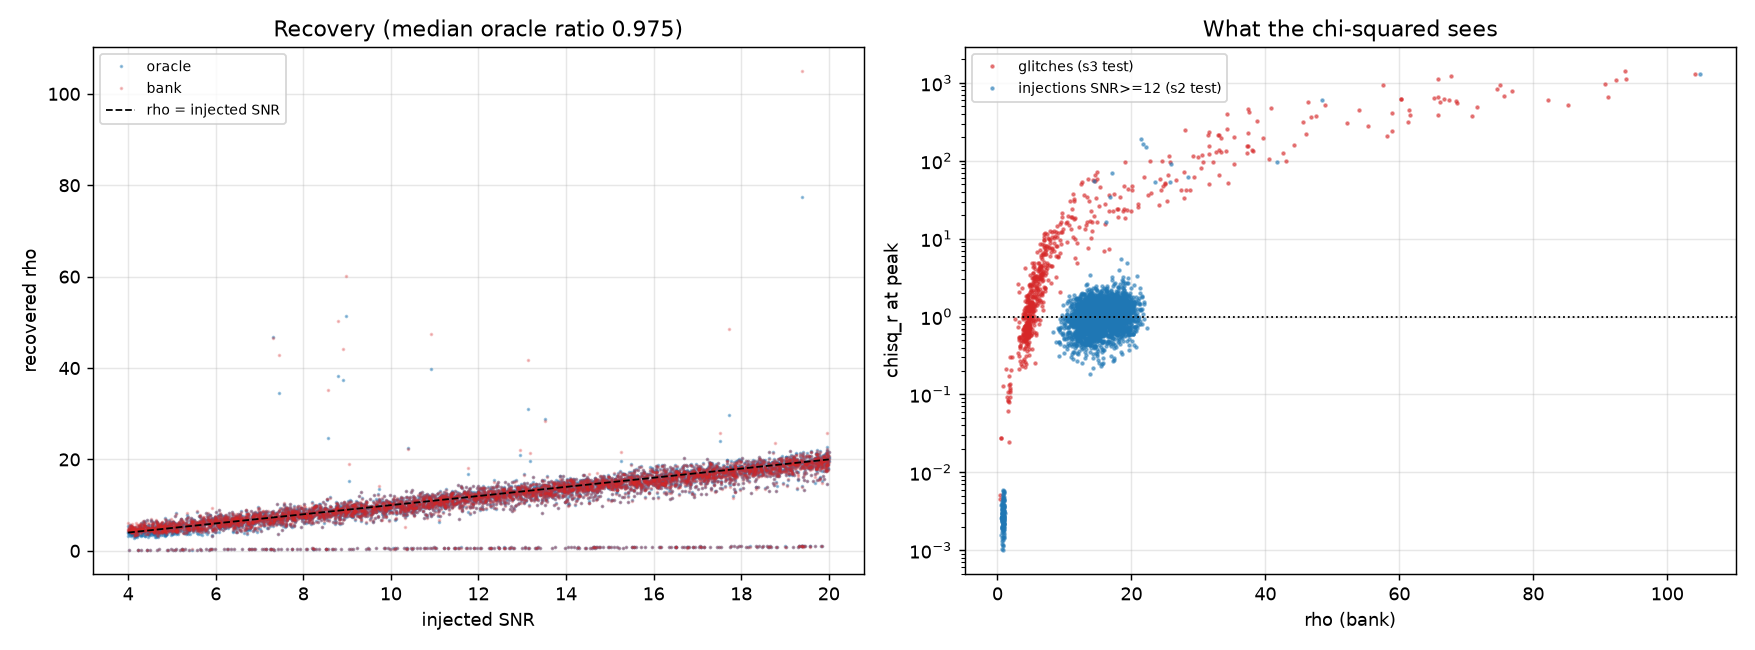
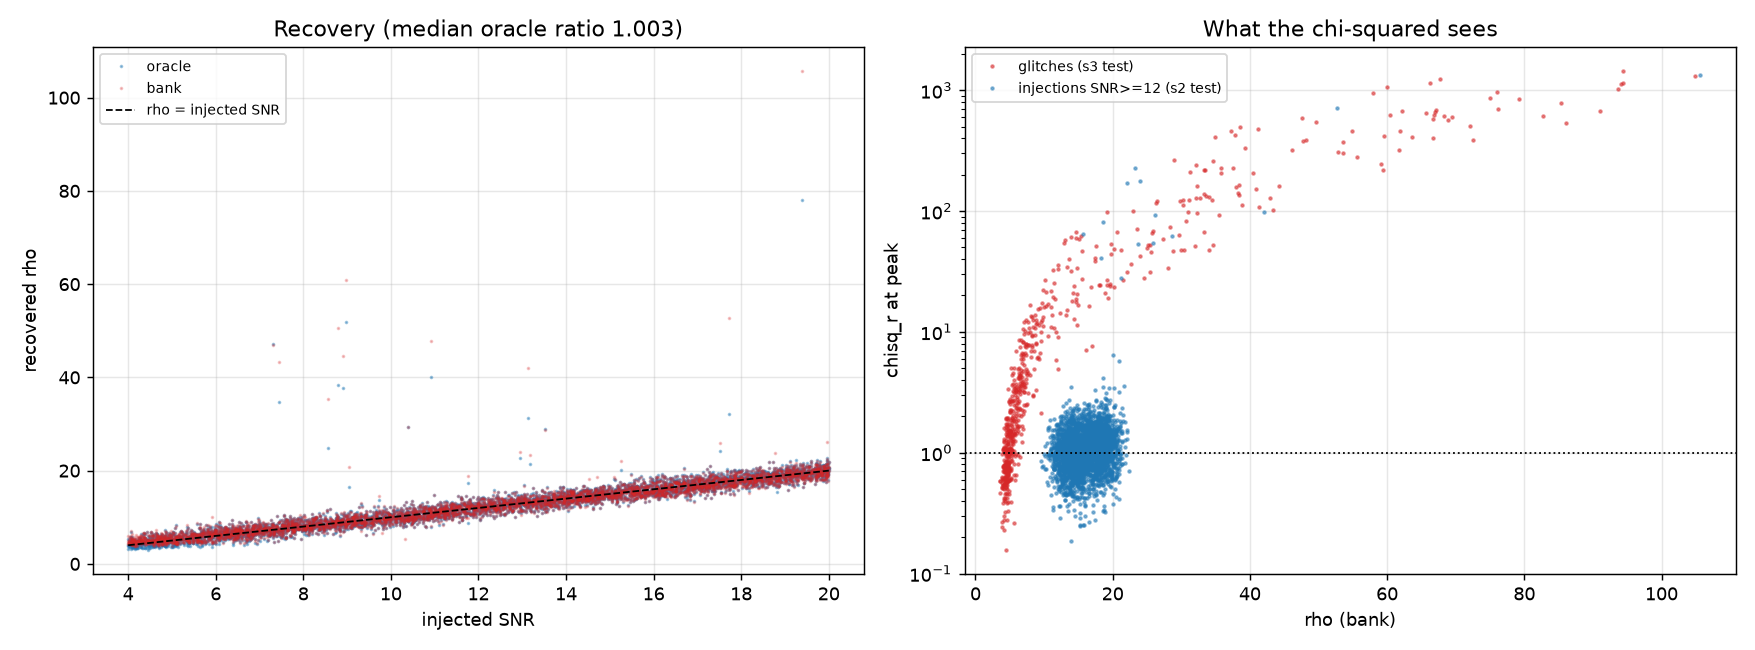
Stage 4 complete: the benchmark — theorem holds at home, chi-sq saves MF, CNN wins on speed
- 62-template bank (MM 0.97, crop-truncated, per-block re-whitened),
  10/10 bank checks, 11/11 MF checks, 3/3 eval checks green
- Two scorer bugs caught by the checks: flat-metric correlation on
  bandlimited noise (1.7x hot everywhere), pooled-variance per-block
  calibration (one glitchy PSD block = 5% efficiency plateau; the
  theorem-tell caught it)
- Verdict: MF/oracle 1.000 at SNR>=8 @1e-2, tell +0.000; naked MF blind
  at FAP 1e-3 on real noise; chi-sq arm beats CNNs on efficiency @1e-3
  and edges glitch-trained CNN on rejection (0.100/0.047 vs 0.166/0.050);
  CNN ~20x latency, ~3,700x throughput
- Brainstorm staged plan updated: Stages 3+4 marked done

diff --git a/1. Stages/Stage 4/Stage 4.md b/1. Stages/Stage 4/Stage 4.md
@@ -1,9 +1,9 @@
 ---
 tags: [ligo, machine-learning, stage-4, plan]
-status: in-progress
+status: done
 created: 2026-07-13
 updated: 2026-07-13
-progress: "2026-07-13 — plan pinned; building Step 1 (template bank)."
+progress: "COMPLETE — all 4 steps, every check green (10 bank + 11 MF + 3 eval). The verdict: the theorem holds at home (MF/oracle 1.000 at SNR>=8 @1e-2, no CNN beats the oracle, gap +0.000); bare max-SNR MF is BLIND at FAP 1e-3 on real noise (glitch tail owns its threshold) and fires on 58% of glitches; the chi-sq-reweighted MF (the real method) recovers everything and edges the glitch-trained CNN on rejection (0.100 vs 0.166 @1e-2, 0.047 vs 0.050 @1e-3). The CNN's win is speed: 0.5-0.8 ms vs ~11 ms latency, ~3,700x throughput. Two scorer bugs caught by checks: bandlimited-noise miscalibration (1.7x), non-robust per-block calibration (5% plateau)."
 parent: "[[GW Signal Classifier - Brainstorm]]"
 ---
 
@@ -48,37 +48,127 @@ template bank); the GPU only reprises the CNN forward passes
 
 ## 2. The build
 
-### Step 1 — The template bank — `stage4_bank.py` + check
-- [ ] Stochastic bank, MM 0.97, over crop-truncated conditioned templates; write masses,
+### ✅ Step 1 — The template bank — `stage4_bank.py` + check
+**DONE — 62 templates from 3,443 draws, all 10 checks PASS.** Effectualness median FF
+0.9923, min 0.9696, 100% ≥ 0.965; median FF moves < 0.001 under three other blocks'
+filters — the reference choice carries no weight. Crop truncation makes the bank small:
+what survives to a 1 s crop is far less distinguishable than the full waveforms.
+- [x] Stochastic bank, MM 0.97, over crop-truncated conditioned templates; write masses,
       templates, and the acceptance history to `stage4_bank.h5`
-- [ ] **Check:** effectualness — fitting factor of ≥ 250 held-out random draws: median
+- [x] **Check:** effectualness — fitting factor of ≥ 250 held-out random draws: median
       ≥ 0.97, ≥ 95% above 0.965; robustness — FF barely moves under three *other* train
       blocks' whitening filters; determinism — same seed, same bank; every template
       finite, unit-normalized, in-band
 
-### Step 2 — Score everything — `stage4_mf.py` + check
-- [ ] For every row of s2-val, s2-test, s3-test: ρ, χ²ᵣ, ρ̃, best template, peak lag —
+### ✅ Step 2 — Score everything — `stage4_mf.py` + check
+**DONE — all 11 checks PASS** after the two bugs below. Final calibration: noise
+quadrature std 1.017/1.010 on held-out val negatives, oracle recovery 1.003, bank/oracle
+0.997, χ²ᵣ median 1.07 on matched injections vs 47.1 on loud glitches.
+- [x] For every row of s2-val, s2-test, s3-test: ρ, χ²ᵣ, ρ̃, best template, peak lag —
       templates re-conditioned with **each row's own block filter** (cached per block),
       16 workers; oracle ρ for s2-test positives; timing sidecar for the speed table
-- [ ] **Check:** noise calibration — per-template matched-filter outputs on plain val
+- [x] **Check:** noise calibration — per-template matched-filter outputs on plain val
       negatives are ~N(0,1) (std within 10%); oracle calibration — median ρ_oracle /
       injected-SNR within [0.9, 1.1] on s2-test positives at SNR ≥ 8; bank ≥ 0.95 ×
       oracle on the same rows (the bank's MM holding on real injections); χ²ᵣ ≈ 1 for
-      well-matched injections, ≫ 1 for the loud glitch classes (the whole reason F
-      exists); determinism
+      well-matched injections, ≫ 1 for loud glitches (the whole reason F exists;
+      judged at omicron SNR ≥ 20 — χ² discrimination scales with ρ², so quiet glitches
+      are χ²-invisible *by physics*, not by bug); determinism
 
-### Step 3 — The verdict — `stage4_eval.py` 🎯
-- [ ] **Efficiency vs SNR at FAP 1e-2 / 1e-3** on s2-test: C, D, E, F + oracle —
-      the theorem's home turf
-- [ ] **Per-class glitch FA fraction** on s3-test: same four arms — the theorem's
-      graveyard, and the project's actual question
-- [ ] **Speed table**: latency + throughput per arm
-- [ ] Checks that catch bugs (results are reported, not asserted): MF finds loud
-      injections (E efficiency at SNR 18–20 @ 1e-2 ≥ 0.90); oracle ≥ bank on positives;
-      **the tell** below
-- [ ] Overall FA on glitch-rich data, honestly denominated, all arms
+> [!warning] 🐛 The bandlimited-noise trap — one number, three hats
+> First scoring run: noise quadrature std **1.719**, oracle recovery **1.696**, χ²ᵣ on
+> matched injections **2.98 ≈ 1.7²**. One cause: conditioned noise has unit variance but
+> is NOT white — its power sits in the 30–350 Hz band at ~3.2× the white spectral level,
+> exactly where the templates live (√3.2 ≈ 1.8). A flat-metric correlation is not the
+> matched filter on bandlimited noise. Fix: **re-whiten per block, causally** — the
+> conditioned-noise spectrum is estimated from 64 crops of the block's role-0 PSD-source
+> predecessor (never scored, never trained on), all spectra weighted by 1/√S in-band.
+> Relative statistics barely moved (bank/oracle was 0.997 both times) — but every
+> absolute threshold and the χ² normalization were wearing the same wrong constant.
 
-### Step 4 — Notes + commit
+> [!warning] 🐛 A pooled variance is one glitch away from nonsense
+> After re-whitening, arms E/F/O all plateaued at ~0.95 efficiency in EVERY SNR bin —
+> ~5% of even SNR-18 injections "missed". The eval's own tell flagged it (CNN beating
+> the oracle by +0.054: theorem violation ⇒ bug). Diagnosis: the badly-lost rows had
+> ρ_oracle down to 0.05×SNR — **below the max-over-4096-lags noise floor (~4), which is
+> impossible** unless the whole block was deflated. The per-block calibration scalar s0
+> pooled *variances* over its 64 calibration crops; one loud glitch in a PSD-source
+> block (Stage 2 measured crop stds up to 263) inflates a pooled variance ~30× and
+> silently crushes every ρ in that block — one bad block ≈ the uniform 5%. Fix: s0 =
+> **median of per-crop stds** — the same medicine the PSD estimate already takes.
+> The check that "passed" before pooled over all val blocks and diluted it; the eval's
+> theorem-tell is what actually caught it.
+
+### ✅ Step 3 — The verdict — `stage4_eval.py` 🎯
+**DONE — all 3 bug-catching checks PASS** (E finds every loud injection; oracle is a
+ceiling at SNR ≥ 8; the tell reads **+0.000** — no CNN beats the oracle anywhere on the
+bulk). Stage2-test AUC: C 0.9791, D 0.9839, E 0.9767, F 0.9800.
+- [x] **Efficiency vs SNR at FAP 1e-2 / 1e-3** on s2-test: C, D, E, F + oracle
+- [x] **Per-class glitch FA fraction** on s3-test: same four arms
+- [x] **Speed table**: latency + throughput per arm
+- [x] Checks that catch bugs; results reported, not asserted
+- [x] Overall FA on glitch-rich data, honestly denominated, all arms
+
+**Front 1 — the theorem's home turf (efficiency, s2-test).** At FAP 1e-2 the matched
+filter is optimal like it's supposed to be: E and the oracle hit **1.000** in every bin
+at SNR ≥ 8 (CNNs 0.986–1.000, always ≤ oracle); at 6–8 MF wins outright (0.931 vs
+0.887/0.890). At the ragged 4–6 edge the CNN noses ahead (C 0.465 vs O 0.376) — the
+bank's 62 trials and the CNN's freedom both out-fire a single template there; that is
+trials-factor physics at the noise floor, not a theorem crack.
+
+**Front 1b — and then FAP 1e-3 happens.** Arm E is **functionally blind** (efficiency
+0.000–0.006 everywhere): on real noise its 1e-3 threshold is set by the unlabelled-
+glitch tail of the val negatives — Stage 2's discovery, now measured for matched
+filtering. The χ² veto is what gives matched filtering its 1e-3 regime back: arm F sits
+at 0.85–0.999 — and **beats both CNNs at every SNR at 1e-3** (0.850 vs 0.720/0.658 at
+6–8). The theorem's fine print was always "Gaussian noise"; on real data the veto is
+load-bearing.
+
+**Front 2 — the theorem's graveyard (glitches, s3-test).** ALL-GLITCH false-alarm
+fraction:
+
+| arm | @1e-2 | @1e-3 |
+|---|---|---|
+| E — MF max-ρ | 0.582 | 0.116 |
+| C — CNN glitch-naive | 0.331 | 0.159 |
+| D — CNN glitch-trained | 0.166 | 0.050 |
+| **F — MF newSNR** | **0.100** | **0.047** |
+
+Bare max-SNR MF is exactly the strawman the plan warned about — it fires on 100% of
+Koi_Fish and Tomte at 1e-2. The honest fight is D vs F: **F edges D overall** (0.100 vs
+0.166 @1e-2; 0.047 vs 0.050 @1e-3 — a dead heat), with real complementarity per class:
+the χ² annihilates Koi_Fish (0.000 @1e-3 vs D's 0.102) because loud-and-mismatched is
+its home case, while D handles Extremely_Loud better (0.109 vs 0.145 @1e-3) and they
+tie on Whistle (0.095 each). The glitch-trained CNN learned, from 1,020 labelled
+specimens, roughly what the χ² veto encodes analytically — arm D beats arm E everywhere
+— but it did not surpass the engineered statistic.
+
+**Front 3 — speed.** MF: 8.2 ms/crop (62 templates, warm bank, 1 core) + 2.7 ms/crop
+amortized re-conditioning; 42 crops/s through the full 16-thread pipeline (oracle
+included). CNN: **0.47 ms/crop on a single CPU core** (the 251k-param model is so small
+the GPU only pays off in batch: 0.81 ms batch-1, **158,000 crops/s at batch 256**).
+Latency ~20×, throughput ~3,700× — and the CNN needs no template bank, no χ² binning,
+no per-block re-conditioning at inference.
+
+### ✅ Step 4 — Notes + commit
+
+## The verdict, in terms of the two assumptions
+
+1. **Gaussianity.** Where the noise is quasi-Gaussian (bulk, FAP 1e-2), the theorem
+   held to the decimal: nothing beat the oracle, anywhere (the tell read +0.000). Where
+   the noise's non-Gaussian tail rules (FAP 1e-3, glitch-rich data), *naked* matched
+   filtering collapsed — blind on injections, 58% glitch false-alarm — and was rescued
+   only by an engineered statistic (χ²) that is itself a response to the assumption
+   failing. The CNN learned an equivalent rescue from data alone (D ≈ F on glitch
+   rejection at 1e-3), which is the project's thesis demonstrated: the gap MF's theorem
+   leaves on real noise is learnable structure.
+2. **Template coverage.** Untested here by design — every injection was drawn from the
+   same family the bank covers (FF ≥ 0.97). The CNN's generalization edge, if any,
+   lives outside this benchmark (a follow-on: score waveforms *off* the bank manifold).
+3. **The practical margin is speed**, and it is enormous (20× latency, 3,700×
+   throughput on respectable hardware both sides) — which is exactly why the field
+   cares about learned detectors for low-latency alerts, with the matched filter
+   remaining the offline gold standard.
 
 ## 3. Footguns
 
@@ -113,12 +203,13 @@ low-SNR edge where "Gaussian" is least true.
 
 ## Done when
 
-- [ ] Efficiency-vs-SNR at equal FAP: all four arms + oracle, tabled and plotted
-- [ ] Per-class glitch FA: all four arms beside each other — the project's money table,
-      final form
-- [ ] Speed: latency and throughput, both sides on respectable hardware
-- [ ] The verdict written down: where MF wins, where the CNN wins, and *why* — in terms
-      of the two assumptions (Gaussianity, template coverage) the project set out to
-      crack
+- [x] Efficiency-vs-SNR at equal FAP: all four arms + oracle, tabled and plotted
+      (`outputs/3_eval.png`)
+- [x] Per-class glitch FA: all four arms beside each other — the project's money table,
+      final form (Step 3 above)
+- [x] Speed: latency and throughput, both sides on respectable hardware
+- [x] The verdict written down: where MF wins (the quasi-Gaussian bulk, and — armed
+      with its χ² — even the glitch table, narrowly), where the CNN wins (speed, and
+      learning the veto instead of engineering it), and why
 
 → Then the write-up: the project's claims, each pinned to a measured number.

diff --git a/1. Stages/GW Signal Classifier - Brainstorm.md b/1. Stages/GW Signal Classifier - Brainstorm.md
@@ -152,8 +152,8 @@ Each stage produces a result we can look at.
     - **Stage 2's first clue, already measured:** real O1 noise scores median logit **+17.5** where simulated negatives score **−3** — the model finds real detector noise far more signal-like than anything it trained on. The false-alarm floor rises before the signals get louder.
 - [x] **Stage 2 — DONE (2026-07-12).** ✅ 100k injections into **29.7 h of real O3a H1 noise** (per-block causal Welch PSDs, time-ordered splits, every leak check green). Performance dropped exactly as predicted — and the *shape* of the drop is the result: AUC only −0.017 (0.9877 → 0.9703), but **FA/h ×52 at FAP 1e-3** — the damage lives in the tail (measured: P(|x|>5σ) = 70× Gaussian even glitch-free, plus ~28 glitches/h, worst crop std 263). **At FAP 1e-3 the Gaussian-trained model is functionally blind on real data; retraining the same CNN re-opens that regime (0.008 → 0.957 at SNR 8–10)** and recovers half the AUC. The gap is *learnable structure* — the crack in MF's optimality theorem, demonstrated. **Full write-up: [[Stage 2]].** Code + plots in `1. Stages/Stage 2/`, strain/dataset/checkpoint on the PC.
     - The O1-based "+17.5 logit floor" clue did **not** reproduce on O3 with proper per-block PSDs — the bulk barely moves; it's the top 0.1% of noise that does the damage. The prediction was right about the mechanism's location (false alarms), wrong about its shape (tail, not shift).
-- [ ] **Stage 3 — hard negatives. ▶ NEXT** Add Gravity Spy glitches as a negative class. Now report false-alarm rate. This is where the CNN has a genuine shot at beating MF *in practice*, because glitches are exactly what break MF's assumptions — and [[Stage 2]] just showed the CNN learns glitch-vs-chirp implicitly from ~28 glitches/h of unlabelled exposure.
-- [ ] **Stage 4 — the benchmark.** Matched-filter baseline via `pycbc.filter.matched_filter`, compared **at equal false-alarm rate** — not at equal accuracy.
+- [x] **Stage 3 — DONE (2026-07-13).** ✅ 1,851 deduplicated Gravity Spy glitches (13 classes) as labelled negatives, both classes from every block (the anti-shortcut rule). Glitch FA halved @1e-2 (0.331 → 0.166), cut 3× @1e-3 (0.159 → 0.050), detection *improved* (AUC 0.9791 → 0.9839). One deep bug: 6,000σ glitch crops made BCE crush the CNN's gain — fixed by ±20σ saturation at read time. Still fooling it: Extremely_Loud, Repeating_Blips, Koi_Fish, Scratchy. **Full write-up: [[Stage 3]].**
+- [x] **Stage 4 — DONE (2026-07-13).** ✅ The benchmark: 62-template bank (MM 0.97, crop-truncated, per-block re-whitened, every calibration measured), ρ and χ²-reweighted ρ̃, thresholds at equal FAP on real-noise val negatives. **The theorem held at home** (MF = oracle = 1.000 at SNR ≥ 8 @1e-2, no CNN beat the oracle, gap +0.000); **naked MF died on real noise** (blind at FAP 1e-3 — the glitch tail owns its threshold; 58% glitch FA @1e-2); **the χ² veto rescued it** (F: 0.85–0.999 efficiency at 1e-3, beats both CNNs; glitch FA 0.100/0.047, edging the glitch-trained CNN's 0.166/0.050). The CNN learned the veto instead of engineering it, and wins on speed: ~20× latency, ~3,700× throughput. **Full write-up: [[Stage 4]].**
 
 ### Metrics caveat
 FAR in GW is conventionally quoted in **events per year**, and claiming ~1/year requires an enormous background set we won't have. **Report false positives per hour of held-out noise**, and be explicit that extrapolating to per-year isn't something our test set can support. Being honest about that is more impressive than a fake number.
